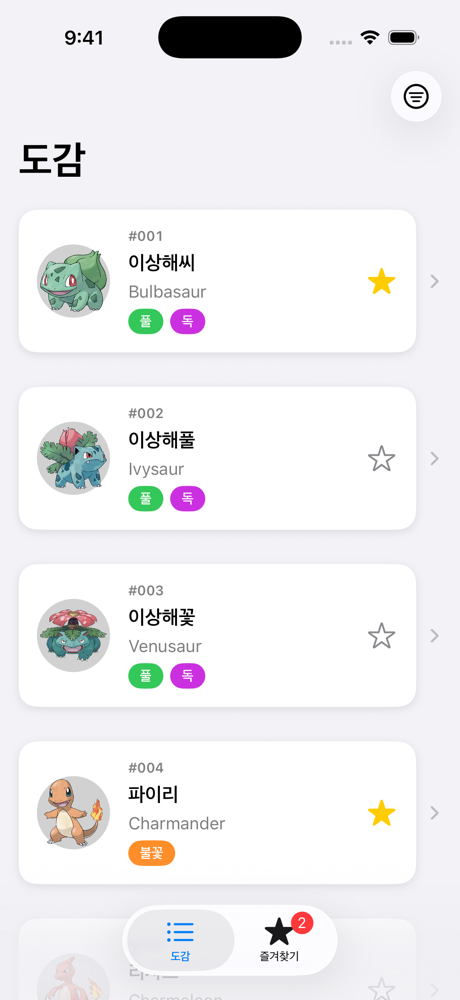
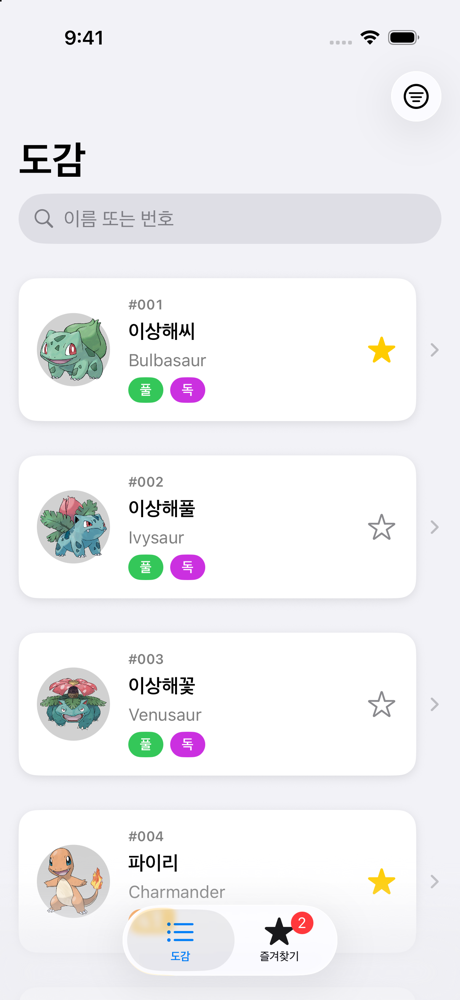
README 스크린샷: 검색창이 보이는 목록으로 교체, 검색 화면 추가

diff --git a/README.md b/README.md
@@ -4,10 +4,11 @@ A Pokédex app built with SwiftUI and modern Swift Concurrency, powered by [Poke
 The user interface is in Korean.
 
 <p align="center">
-  <img src="docs/screenshots/list.png" alt="List" width="23%">
-  <img src="docs/screenshots/detail.png" alt="Detail" width="23%">
-  <img src="docs/screenshots/stats.png" alt="Base stats" width="23%">
-  <img src="docs/screenshots/favorites.png" alt="Favorites" width="23%">
+  <img src="docs/screenshots/list.png" alt="List" width="18%">
+  <img src="docs/screenshots/search.png" alt="Search" width="18%">
+  <img src="docs/screenshots/detail.png" alt="Detail" width="18%">
+  <img src="docs/screenshots/stats.png" alt="Base stats" width="18%">
+  <img src="docs/screenshots/favorites.png" alt="Favorites" width="18%">
 </p>
 
 ## Features
